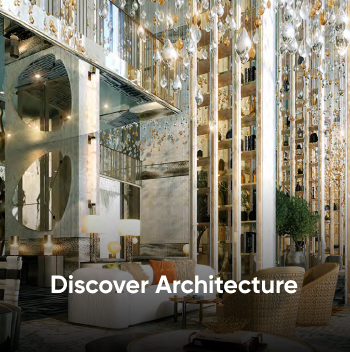
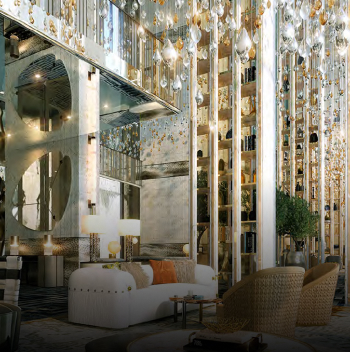
:hammer: add adaptive

Changed region(s): [[0.1429, 0.7812, 0.8571, 0.8438]]

diff --git a/src/components/Home/HomeUsefulAricles/HomeUsefulArticles.module.scss b/src/components/Home/HomeUsefulAricles/HomeUsefulArticles.module.scss
@@ -7,43 +7,80 @@
 
   &__wrapperTitle {
     @include flex(space-between, center);
-    width: 1110px;
-    margin-bottom: 90px;
+    min-width: 283px;
+    margin-bottom: 20px;
+    @include media($SCREEN_TABLET) {
+      width: 690px;
+      margin-bottom: 40px;
+    }
+
+    @include media($SCREEN_DESKTOP) {
+      width: 1110px;
+      margin-bottom: 90px;
+    }
 
     h2 {
-      @include text(70px, 700, $WHITE);
+      @include text(24px, 700, $WHITE);
+
+      @include media($SCREEN_TABLET) {
+        font-size: 30px;
+      }
+
+      @include media($SCREEN_DESKTOP) {
+        font-size: 70px;
+      }
     }
 
     a {
       @include flex-row(center);
-      @include text(16px, 600, #929292);
+
+      @include text(8px, 600, #929292);
       line-height: 21px;
       cursor: pointer;
+      @include media($SCREEN_TABLET) {
+        font-size: 12px;
+      }
+
+      @include media($SCREEN_DESKTOP) {
+        font-size: 16px;
+      }
     }
   }
 
-  &__arrow {
-    @include flex(center);
-    margin-top: 6px;
-    margin-left: 10px;
-    width: 12px;
-    height: 12px;
-    border-top: 1px solid #929292;
-    border-right: 1px solid #929292;
-
-    transform: rotate(45deg);
-  }
-
   &__wrapperImage {
-    @include flex-row(center);
+    @include flex-col(center);
+
+    @include media($SCREEN_TABLET) {
+      @include flex-row(center);
+    }
+
     &_exterior {
       @include flex(center);
-      background-image: url(../../../images/homeUsefulArticlesExterior.jpg);
-      width: 350px;
-      min-height: 352px;
-      margin-right: 30px;
+      background-image: url(../../../images/homeUsefulArticlesNewYorkBeach.jpg);
+      background-size: cover;
+      width: 290px;
+      min-height: 220px;
+      margin-bottom: 20px;
+      h2 {
+        display: none;
+      }
+      @include media($SCREEN_TABLET) {
+        width: 210px;
+        min-height: 220px;
+        margin-right: 30px;
+        margin-bottom: 0px;
+      }
 
-      h1 {
+      @include media($SCREEN_DESKTOP) {
+        background-image: url(../../../images/homeUsefulArticlesExterior.jpg);
+        width: 350px;
+        min-height: 352px;
+        h2 {
+          display: block;
+        }
+      }
+
+      h2 {
         @include text(25px, 700, $WHITE);
         margin-top: 260px;
         margin-bottom: 50px;
@@ -52,51 +89,133 @@
 
     &_border {
       border: 1px solid $YELLOW;
-      width: 350px;
-      min-height: 352px;
-      padding: 35px 40px 35px 30px;
-      margin-right: 30px;
+      width: 290px;
+      min-height: 220px;
+      padding: 31px 24px 25px 24px;
+      margin-bottom: 20px;
+      @include media($SCREEN_TABLET) {
+        width: 215px;
+        min-height: 220px;
+        padding: 31px 37px 25px 33px;
+        margin-right: 30px;
+        margin-bottom: 0px;
+      }
+
+      @include media($SCREEN_DESKTOP) {
+        width: 350px;
+        min-height: 352px;
+        padding: 35px 40px 35px 30px;
+      }
 
       &_date {
-        @include text(16px, 400, $WHITE);
-        margin-bottom: 15px;
+        @include text(12px, 400, $WHITE);
+        margin-bottom: 13px;
+
+        @include media($SCREEN_DESKTOP) {
+          font-size: 16px;
+          margin-bottom: 15px;
+        }
       }
 
       &_title {
         @include text(25px, 700, $WHITE);
         line-height: 35px;
-        margin-bottom: 28px;
+        margin-bottom: 13px;
+
+        @include media($SCREEN_DESKTOP) {
+          font-size: 25px;
+          margin-bottom: 28px;
+        }
       }
 
       &_about {
-        @include text(16px, 300px, #929292);
+        @include text(12px, 300px, #929292);
         line-height: 26px;
-        width: 270px;
-        margin-bottom: 80px;
+        width: 240px;
+        margin-bottom: 14px;
+
+        @include media($SCREEN_TABLET) {
+          width: 150px;
+        }
+
+        @include media($SCREEN_DESKTOP) {
+          font-size: 16px;
+          width: 270px;
+          margin-bottom: 80px;
+        }
       }
 
       &_link {
         @include flex(_, center);
-        @include text(16px, 600, $YELLOW);
+        @include text(12px, 600, $YELLOW);
         line-height: 24px;
         cursor: pointer;
-        span {
-          @include flex(center);
-          margin-top: 6px;
-          margin-left: 10px;
-          width: 12px;
-          height: 12px;
-          border-top: 1px solid $YELLOW;
-          border-right: 1px solid $YELLOW;
-          transform: rotate(45deg);
+
+        @include media($SCREEN_DESKTOP) {
+          font-size: 16px;
         }
       }
     }
 
     &_interior {
-      background-image: url(../../../images/homeUsefulArticlesInterior.jpg);
-      width: 350px;
-      min-height: 352px;
+      @include flex(center);
+      background-image: url(../../../images/homeUsefulArticlesNewYork.jpg);
+      background-size: cover;
+      width: 290px;
+      min-height: 220px;
+      margin-bottom: 20px;
+      h2 {
+        display: none;
+      }
+      @include media($SCREEN_TABLET) {
+        width: 210px;
+        min-height: 220px;
+        margin-right: 30px;
+        margin-bottom: 0px;
+      }
+
+      @include media($SCREEN_DESKTOP) {
+        background-image: url(../../../images/homeUsefulArticlesInterior.jpg);
+        width: 350px;
+        min-height: 352px;
+        h2 {
+          display: block;
+        }
+      }
+      h2 {
+        @include text(25px, 700, $WHITE);
+        margin-top: 260px;
+        margin-bottom: 50px;
+      }
     }
   }
+}
+.customArrowGray {
+  width: 10px;
+  height: 10px;
+  margin-top: 6px;
+  margin-left: 10px;
+  border-left-color: #929292;
+  border-top-color: #929292;
+  transform: rotate(132deg);
+  @include media($SCREEN_TABLET) {
+    width: 14px;
+    height: 14px;
+    margin-top: 5px;
+    margin-left: 10px;
+  }
+
+  @include media($SCREEN_DESKTOP) {
+    width: 20px;
+    height: 20px;
+    margin-top: 3px;
+    margin-left: 10px;
+  }
+}
+.customArrowYellow {
+  width: 12px;
+  height: 12px;
+  margin-top: 3px;
+  margin-left: 10px;
+  transform: rotate(132deg);
 }

diff --git a/src/components/Home/HomeUsefulAricles/HomeUsefulArticles.jsx b/src/components/Home/HomeUsefulAricles/HomeUsefulArticles.jsx
@@ -1,3 +1,4 @@
+import { CustomArrow } from '../../common';
 import styles from './HomeUsefulArticles.module.scss';
 
 export const HomeUsefulArticles = () => {
@@ -6,12 +7,12 @@ export const HomeUsefulArticles = () => {
       <div className={styles.usefulArticles__wrapperTitle}>
         <h2>Useful articles</h2>
         <a>
-          View all articles <span className={styles.usefulArticles__arrow}></span>
+          View all articles <CustomArrow className={styles.customArrowGray} />
         </a>
       </div>
       <div className={styles.usefulArticles__wrapperImage}>
         <div className={styles.usefulArticles__wrapperImage_exterior}>
-          <h1>Discover Architecture</h1>
+          <h2>Discover Architecture</h2>
         </div>
 
         <div className={styles.usefulArticles__wrapperImage_border}>
@@ -23,11 +24,13 @@ export const HomeUsefulArticles = () => {
             Projects for many large domestic and foreign corporations, enterprises in many elds such
           </p>
           <a className={styles.usefulArticles__wrapperImage_border_link}>
-            Learn more <span></span>
+            Learn more <CustomArrow className={styles.customArrowYellow} />
           </a>
         </div>
 
-        <div className={styles.usefulArticles__wrapperImage_interior}></div>
+        <div className={styles.usefulArticles__wrapperImage_interior}>
+          <h2>Discover Architecture</h2>
+        </div>
       </div>
     </section>
   );
